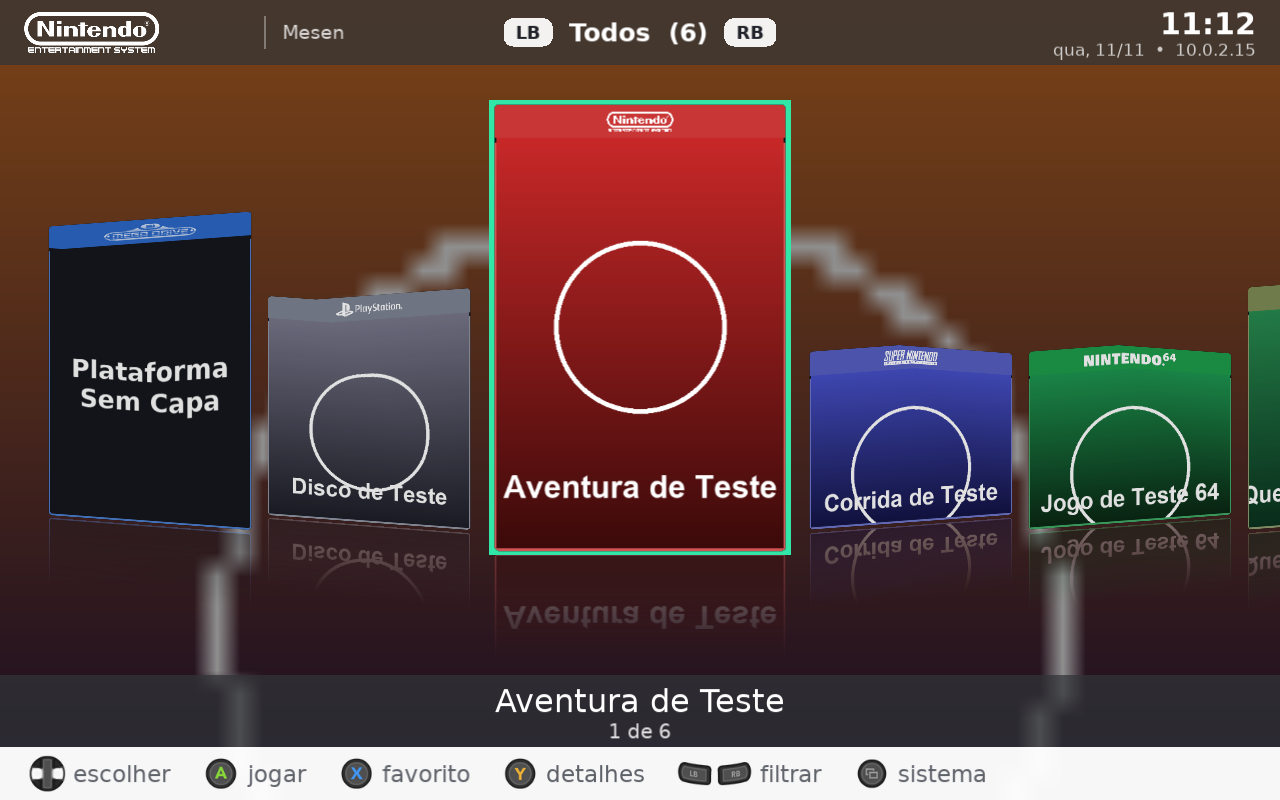
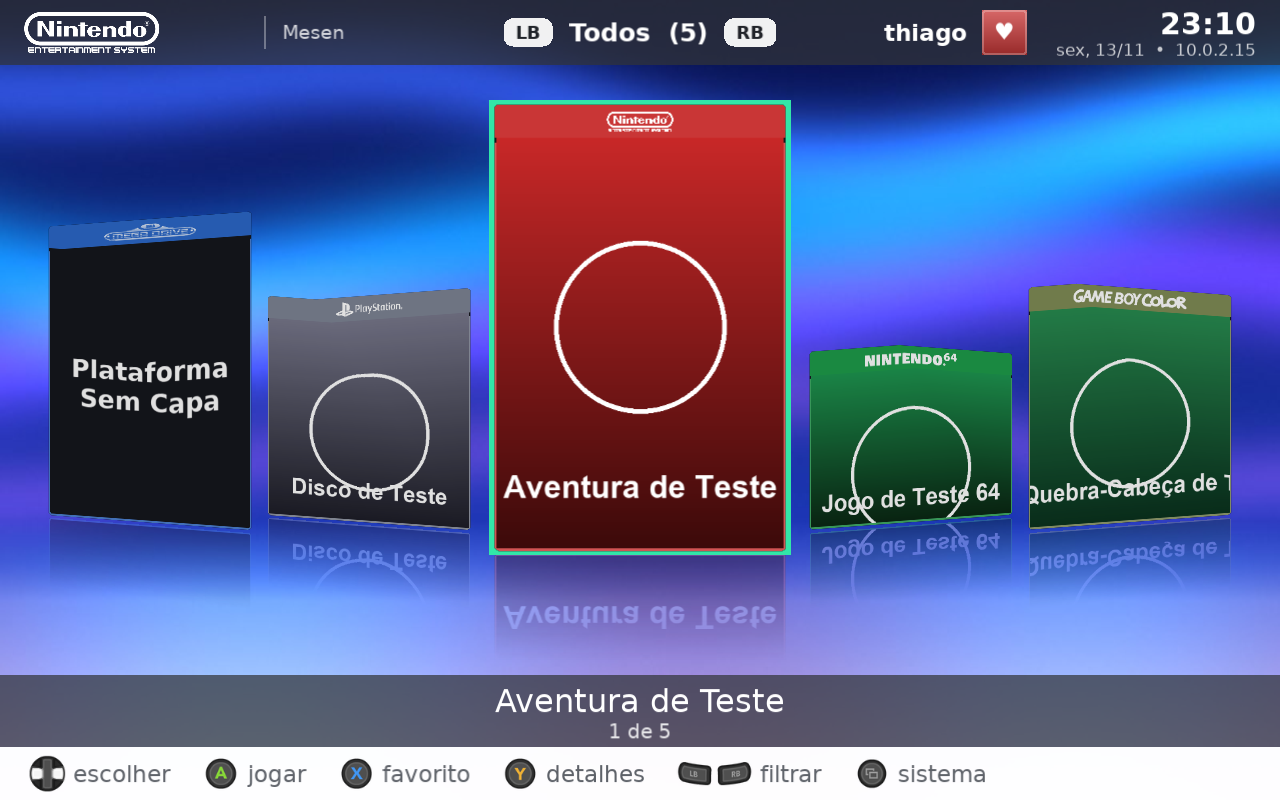
README: capturas novas do ScrapCade 1.4
- refeitas: carrossel, filtro e tema (agora no Oceano), com perfil na barra
- novas: escolha de avatar do perfil e painel Sistema
- texto: perfis, painel, atualizacao A/B, modo desktop, temas novos
- tabela de emuladores com PSP, DS, Saturn, Dreamcast e bsnes
- ScrapCade: "Energia" nao sai mais cortado no painel

diff --git a/external/package/scrapcade/src/scrapcade.cpp b/external/package/scrapcade/src/scrapcade.cpp
@@ -828,7 +828,7 @@ static std::string optLabel(int i) {
     switch (i) {
     case OPT_PERFIL: return "Perfil:   " + perfilNome() + "   (A troca)";
     case OPT_ENERGIA: return energiaDisponivel() ? std::string("Energia:   ‹ ") + ENERGIA[energia] + " ›"
-                                                 : "Energia:   (este computador não permite ajustar)";
+                                                 : "Energia:   (fixa neste computador)";
     case OPT_THEME: return std::string("Tema:   ‹ ") + THEME_NAMES[theme] + " ›";
     case OPT_ANIM: return std::string("Animações:   ‹ ") + (ANIM_MS < 200 ? "Rápidas" : "Normais") + " ›";
     case OPT_COVERS: return std::string("Capas dos jogos:   ‹ ") + (showCovers ? "Mostrar" : "Ocultar") + " ›";

diff --git a/README.md b/README.md
@@ -24,7 +24,7 @@ Depois de ligar, o T-OS usa **26 MB de RAM** e **62 MB de disco**.
 
 ## Modo jogo: ScrapCade
 
-Como numa Steam Machine, o T-OS liga direto no **modo jogo**: o ScrapCade abre em tela cheia. O login de manutenção fica no segundo terminal (**Ctrl+Alt+F2**). O modo desktop (XFCE) entra numa próxima etapa.
+Como numa Steam Machine, o T-OS liga direto no **modo jogo**: o ScrapCade abre em tela cheia. O login de manutenção fica no segundo terminal (**Ctrl+Alt+F2**). O **modo desktop** (Fluxbox, gerenciador de arquivos, navegador) é uma opção à parte, no painel Sistema.
 
 O ScrapCade do T-OS é a conversão do ScrapCade do iChroma para **C++ com SDL2**, com as mesmas medidas, cores e funções.
 
@@ -36,9 +36,21 @@ O ScrapCade do T-OS é a conversão do ScrapCade do iChroma para **C++ com SDL2*
 
 ![Filtro](docs/capturas/6_menu_filtro.png)
 
-**Temas** (Aurora, Carbono, Neon, Arcade, Claro), aqui no Carbono:
+**Temas** (Aurora, Carbono, Neon, Arcade, Claro, 8 bits, Portátil e Oceano, todos desenhados pelo próprio ScrapCade), aqui no Oceano:
 
 ![Tema](docs/capturas/7_menu_tema.png)
+
+**Perfis de jogador**, no estilo dos painéis de console: cada perfil tem avatar, favoritos, preferências e saves próprios, com senha opcional. Ao ligar, o T-OS pergunta "Quem vai jogar?":
+
+![Perfil](docs/capturas/10_perfil_avatar.png)
+
+**Painel Sistema** (botão Select ou Tab): perfil, energia, tema, volume, Wi-Fi, Bluetooth, pasta na rede do Windows, SSH, configurar controle, modo desktop, BIOS, atualizar o T-OS, instalar no HD:
+
+![Painel Sistema](docs/capturas/11_painel_sistema.png)
+
+**Atualizar o T-OS** pelo próprio painel: baixa a versão nova das [Releases](https://github.com/thiagotechmaker/t-os/releases), confere o SHA-256 e guarda a versão de agora. Se a nova não ligar 3 vezes, volta sozinho para a anterior (também dá para escolher "Sistema anterior do T-OS" no menu de boot). Jogos e saves não são mexidos.
+
+![Atualizar](docs/capturas/9_atualizar.png)
 
 As capas das capturas são de teste, feitas para o T-OS. O ScrapCade desenha pela GPU (OpenGL ES pela Mesa) e lê teclado e controle pelo SDL2. Código em `external/package/scrapcade/src`.
 
@@ -56,13 +68,17 @@ O T-OS empacota o **RetroArch 1.22.2** (direto na placa de vídeo pelo KMS, sem 
 | Console | Núcleo |
 |---|---|
 | NES | Mesen |
-| Super Nintendo | Snes9x |
+| Super Nintendo | Snes9x (ou bsnes, trocando no painel de detalhes com X) |
 | Mega Drive, Master System, Game Gear | Genesis Plus GX |
 | Game Boy, Game Boy Color | Gambatte |
 | Game Boy Advance | mGBA |
 | PlayStation | PCSX ReARMed (tem BIOS livre embutida) |
 | Nintendo 64 | Mupen64Plus-Next |
 | Fliperama e Neo Geo | FBNeo (Neo Geo precisa do `neogeo.zip` do usuário) |
+| PSP | PPSSPP |
+| Nintendo DS | melonDS (precisa das BIOS do DS do usuário) |
+| Sega Saturn | Beetle Saturn (precisa da BIOS do usuário) |
+| Dreamcast | Flycast (BIOS do usuário recomendada) |
 
 - **Configuração central:** o `tos-jogar` passa a mesma configuração para todo emulador (vídeo, som, controles, atalhos e pastas). Para mudar algo só seu: `TOS-DADOS/system/configs/retroarch/retroarch-usuario.cfg`.
 - **Atalhos iguais em todo jogo:** **Select + Start** sai, **Select + X** abre o menu, **Select + RB/LB** salva/carrega. No teclado: **Esc** sai, **F1** abre o menu. O ScrapCade mostra esses atalhos ao abrir cada jogo.
@@ -81,7 +97,7 @@ Parecido com o Batocera, mas pensado para não perder jogos:
 
 - **Sistema somente leitura:** o initrd monta o `tos.squashfs` com uma camada na memória por cima. Desligar da tomada não estraga o sistema.
 - **A TOS-DADOS é criada no primeiro boot**, no espaço livre do pen drive ou do HD. Nada é redimensionado: a partição nova ocupa o espaço vazio.
-- **Atualizar o T-OS** é trocar o `tos.squashfs` (dá até pelo Windows, a TOS-BOOT é FAT32). A TOS-DADOS nunca é mexida.
+- **Atualizar o T-OS** pelo painel Sistema (atualização A/B com volta automática) ou trocando o `tos.squashfs` à mão (dá até pelo Windows, a TOS-BOOT é FAT32). A TOS-DADOS nunca é mexida.
 - **exFAT** para o Windows ler e gravar os jogos direto.
 
 ## Testar num notebook ou PC
